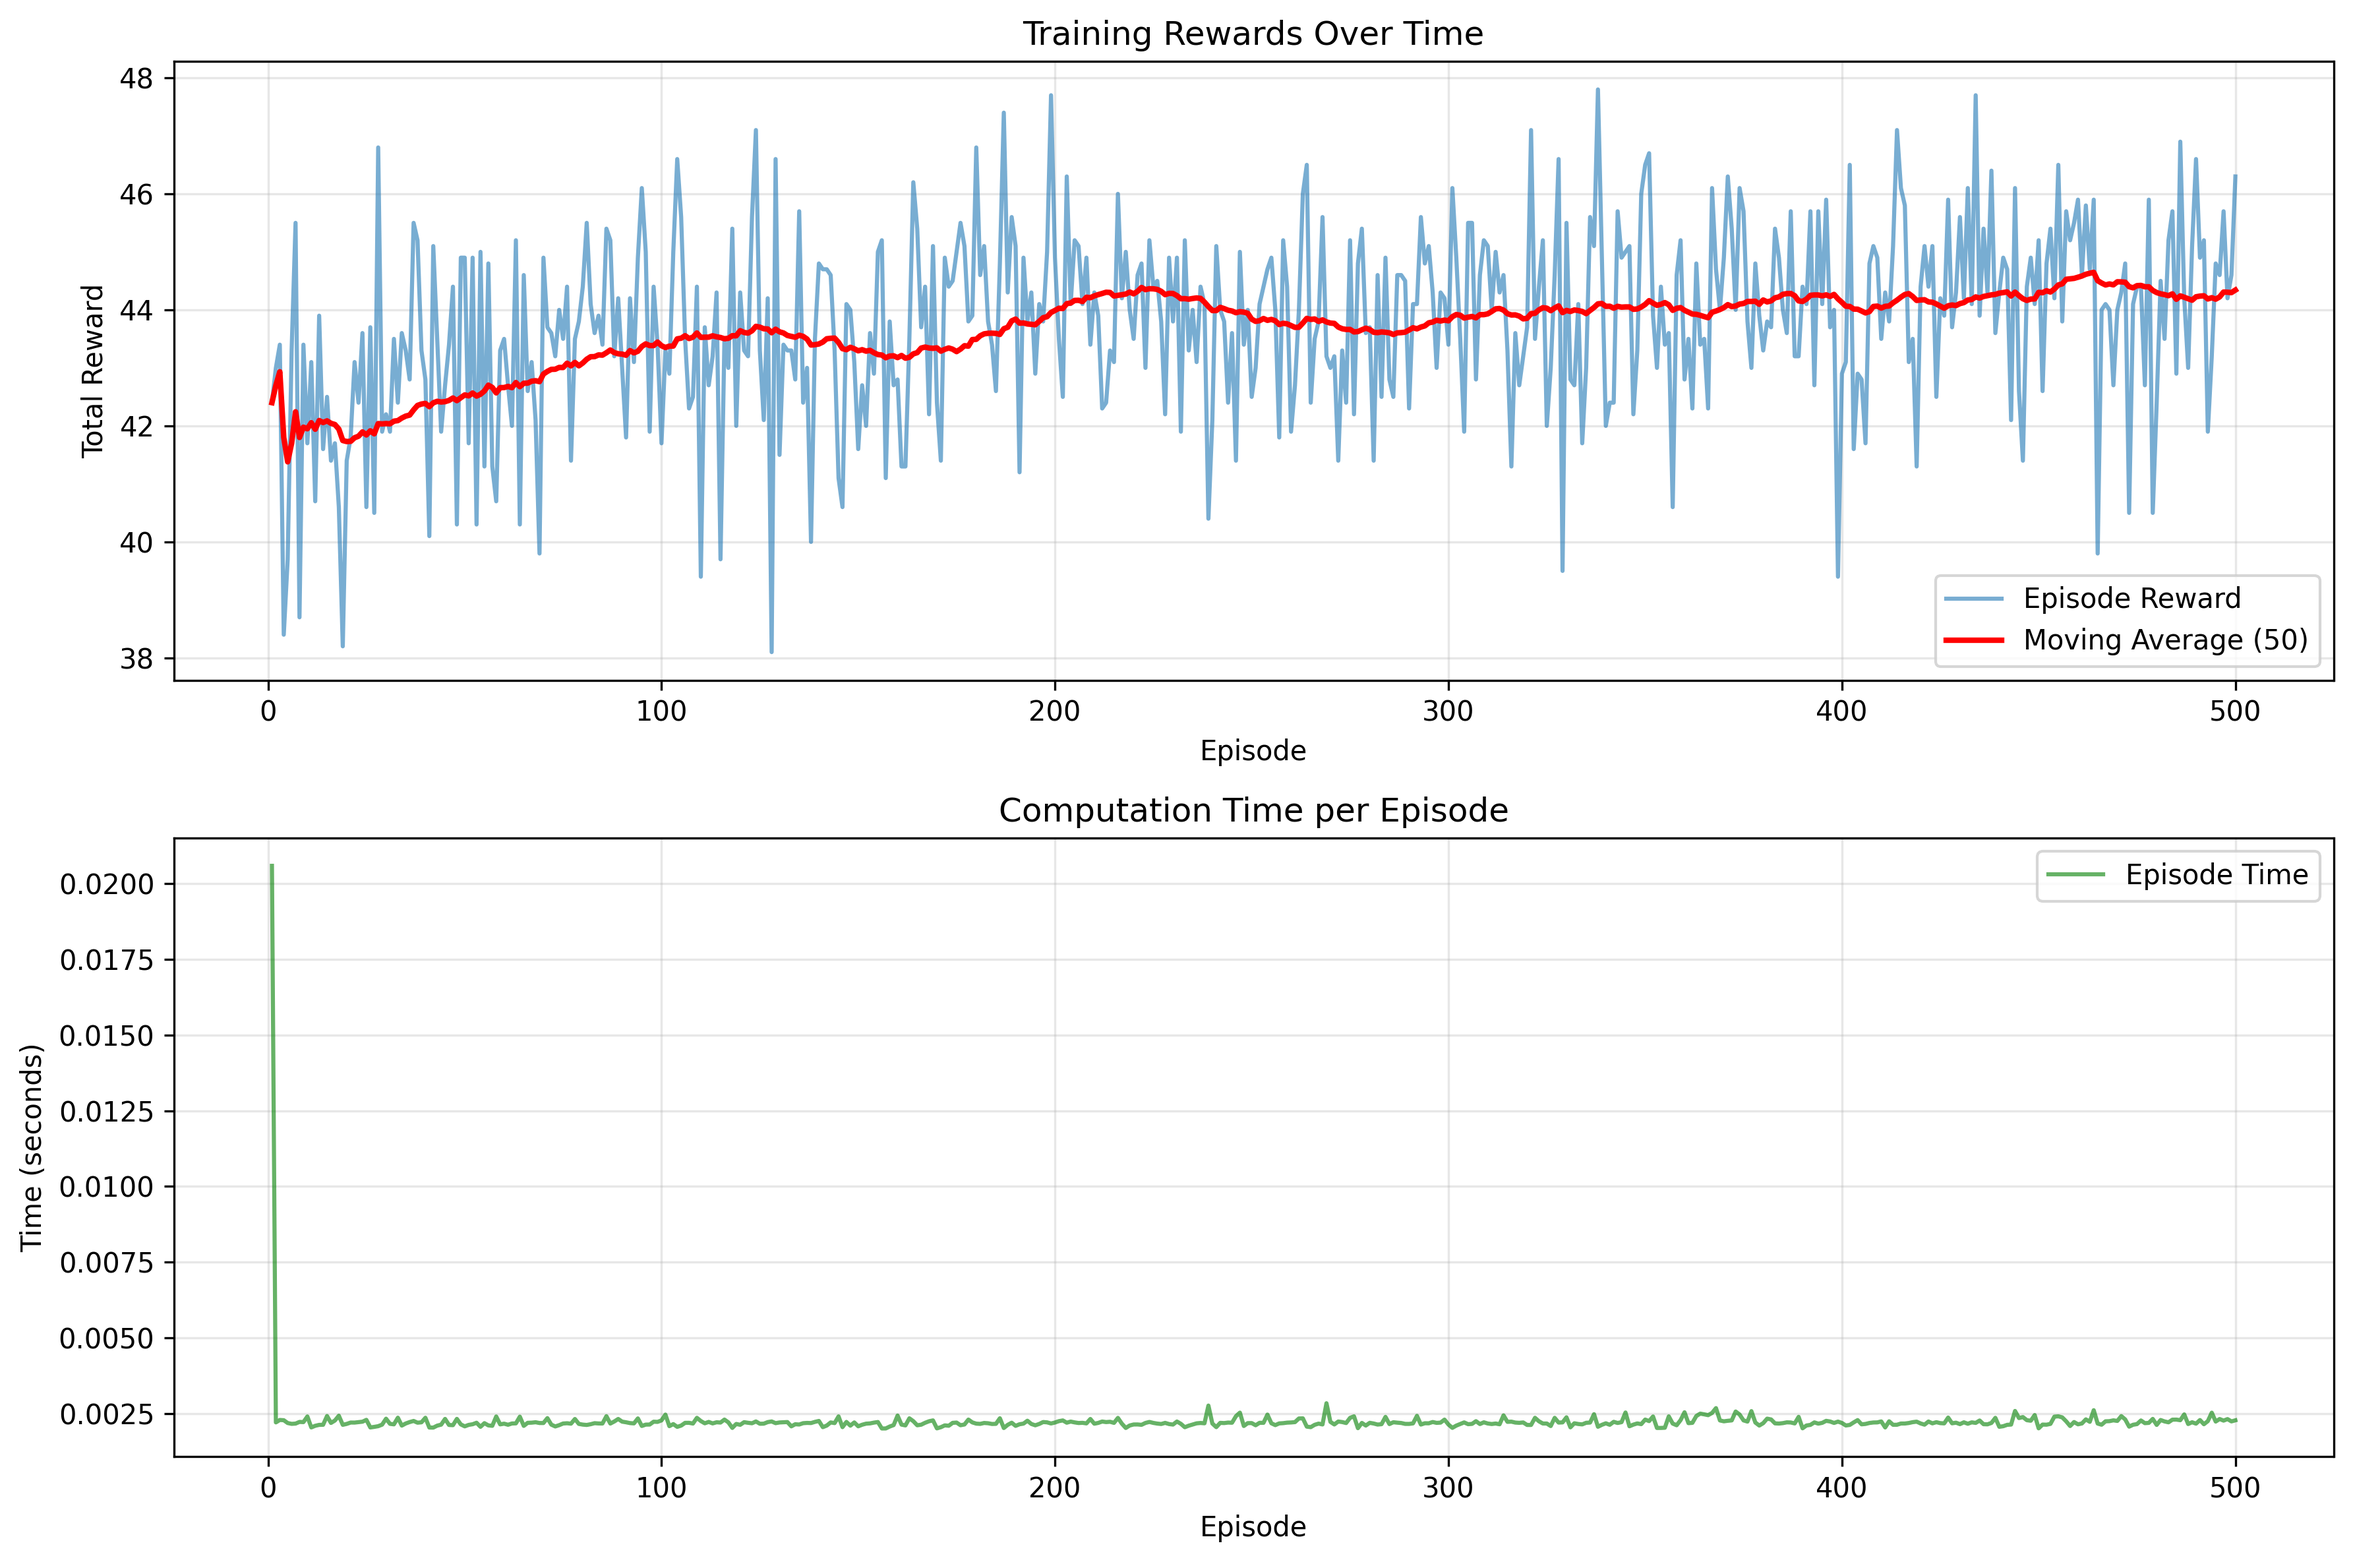
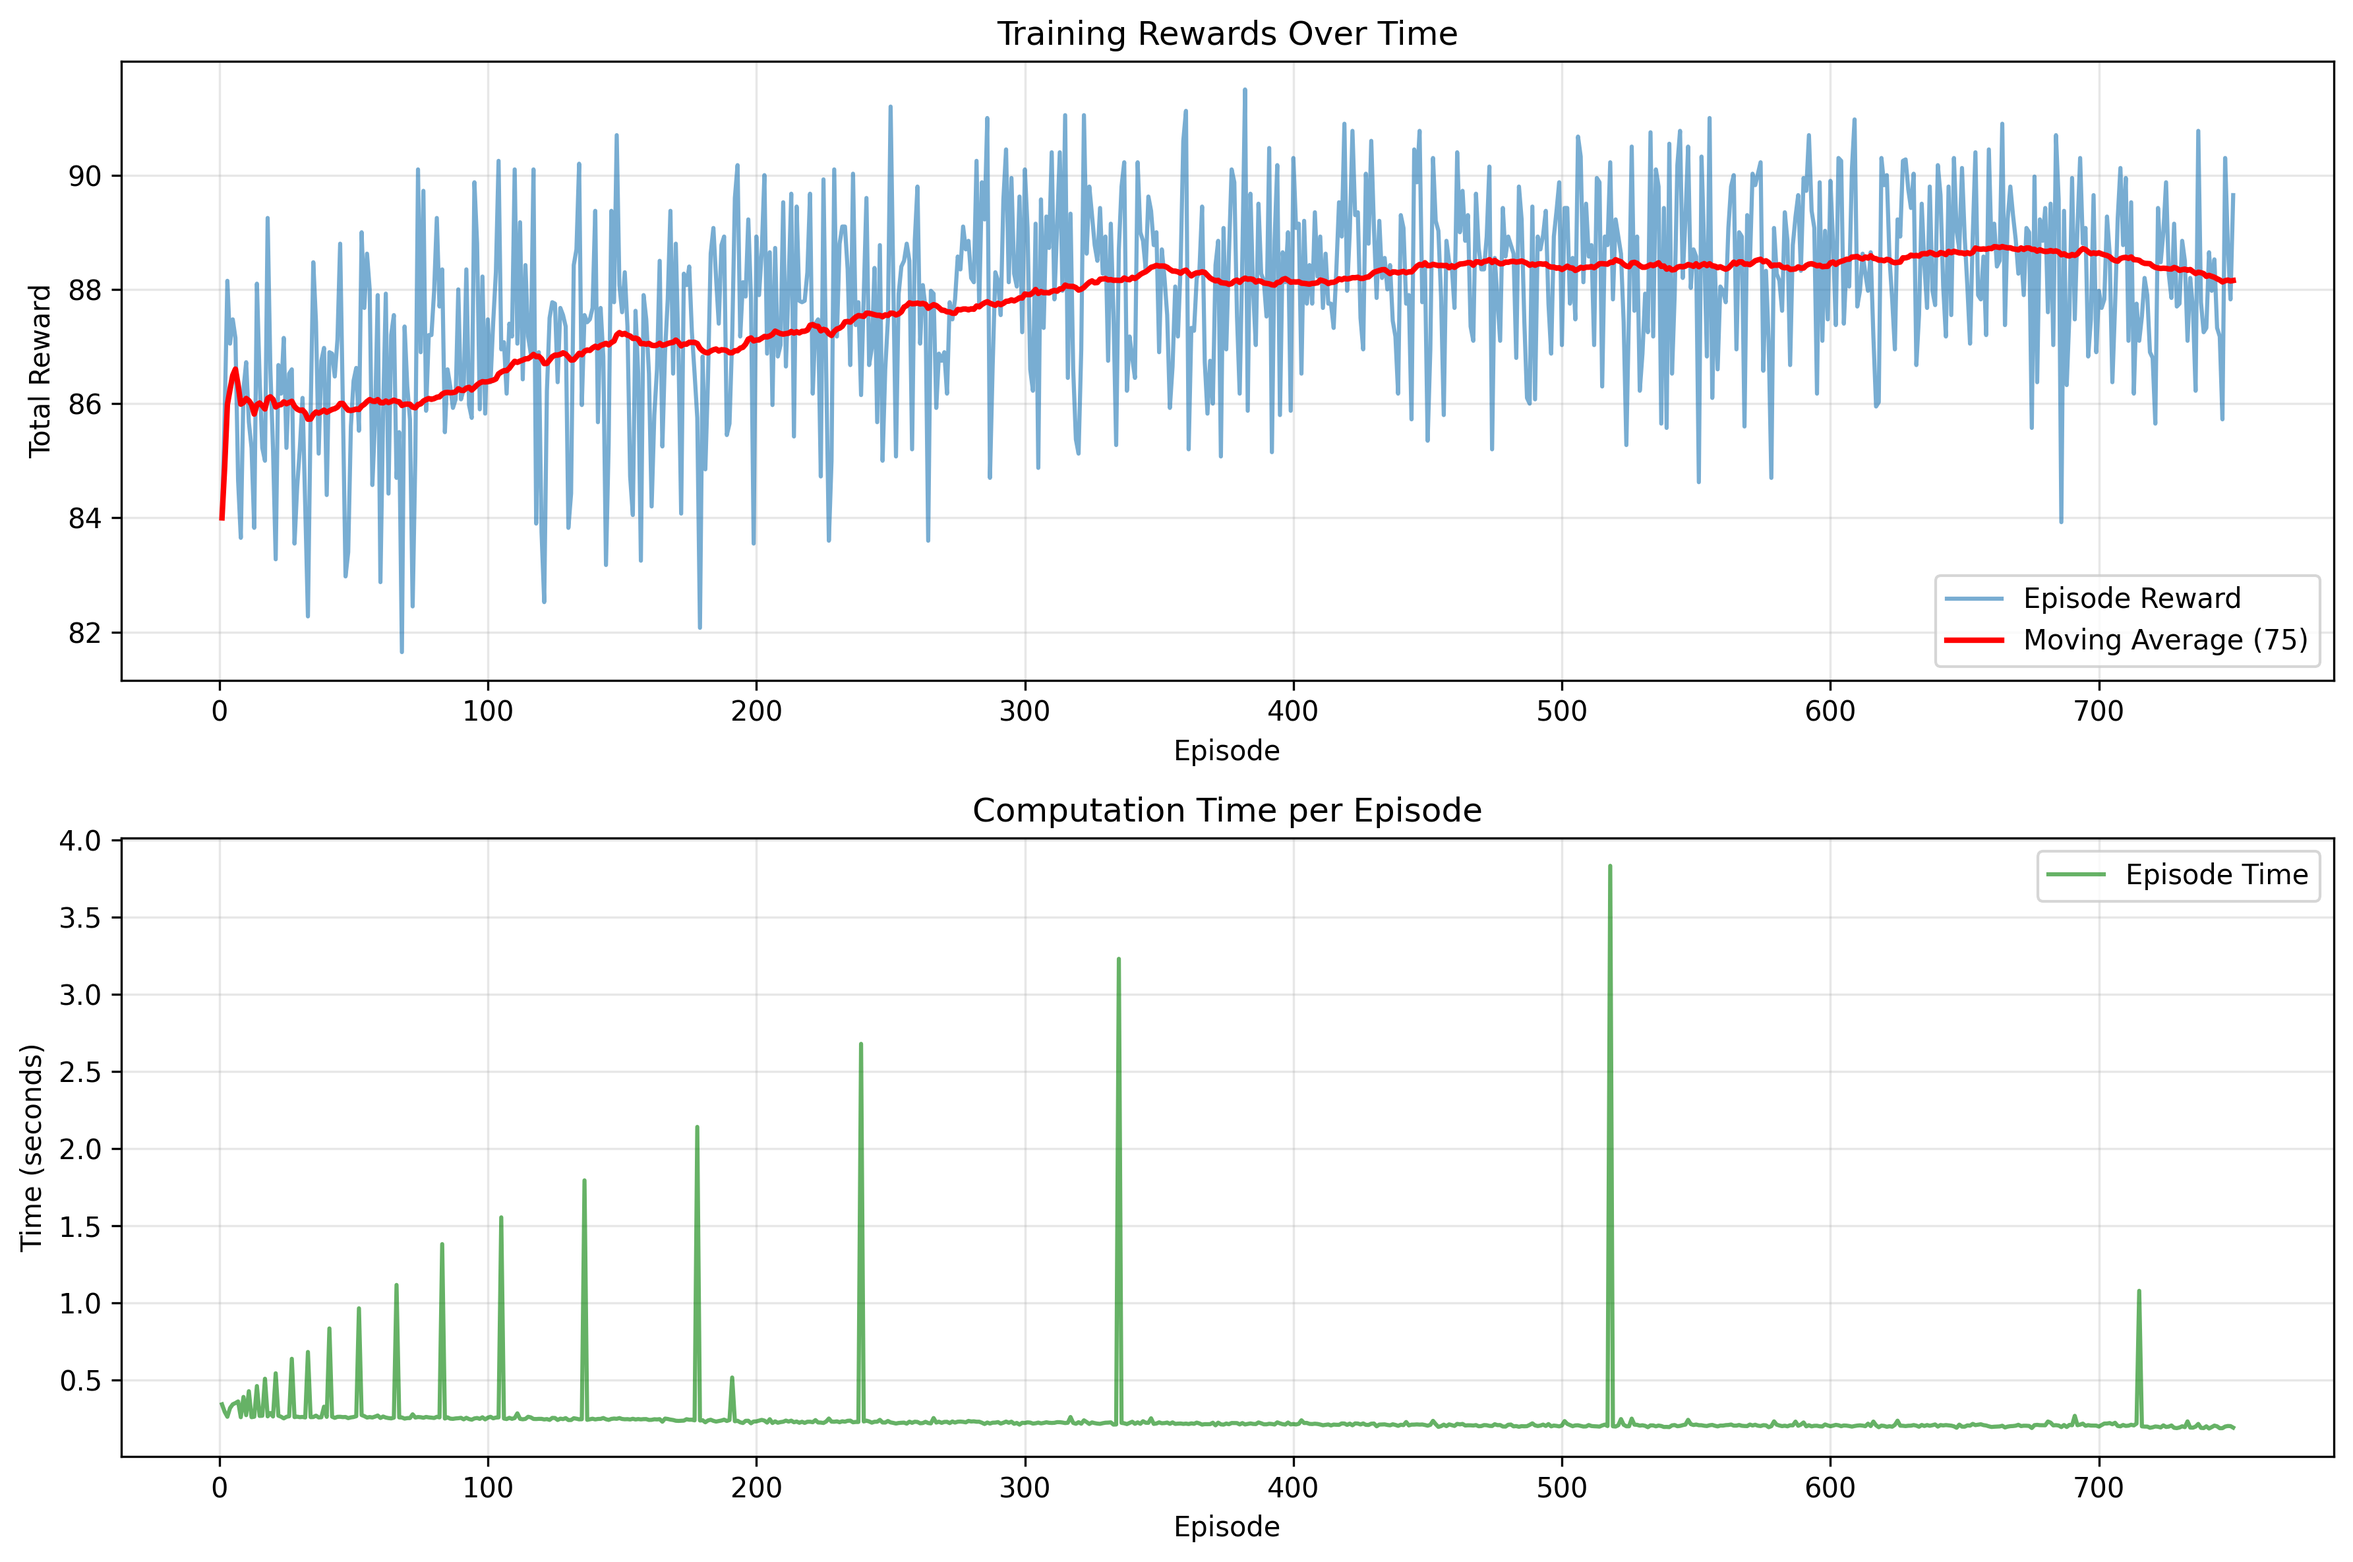
updated with some fixes

diff --git a/centralized_training.py b/centralized_training.py
@@ -17,6 +17,8 @@ from base_classes import (
     GlobalAgentTransition, LocalAgentTransition,
     GlobalAgentReward, LocalAgentReward
 )
+import itertools
+
 
 class CentralizedEnvironment:
     """Environment managing global and local agents with custom transitions and rewards."""
@@ -47,6 +49,7 @@ class CentralizedEnvironment:
         current_global_state = self.global_agent.get_state()
         current_local_states = [agent.get_state() for agent in self.local_agents]
         
+        ###### something is weird here... getting reward before choosing actions?? should first choose actions then get rewards and finally transition states
         # Compute reward
         reward = self.compute_reward(current_global_state, global_action, 
                                    current_local_states, local_actions)
@@ -55,9 +58,11 @@ class CentralizedEnvironment:
         next_global_state = self.global_transition.sample_next_state(current_global_state, global_action)
         next_local_states = []
         
+        # Local agent's state evolves as s_i' ~ P_l(.|s_i, s_g, a_i)
         for i, local_action in enumerate(local_actions):
+            current_local_state = current_local_states[i]
             next_local_state = self.local_transition.sample_next_state(
-                current_global_state, global_action, local_action)
+                current_local_state, current_global_state, local_action)
             next_local_states.append(next_local_state)
         
         # Update agent states
@@ -87,14 +92,13 @@ class CentralizedEnvironment:
 
 class CentralizedQLearning:
     """Centralized Q-learning algorithm for multi-agent system."""
-    
     def __init__(self, 
-                 environment: CentralizedEnvironment,
-                 learning_rate: float = 0.1,
-                 discount_factor: float = 0.9,
-                 epsilon: float = 0.1,
-                 epsilon_decay: float = 0.995,
-                 min_epsilon: float = 0.01):
+                environment: CentralizedEnvironment,
+                learning_rate: float = 0.3,
+                discount_factor: float = 0.9,
+                epsilon: float = 0.1,
+                epsilon_decay: float = 0.995,
+                min_epsilon: float = 0.01):
         self.env = environment
         self.lr = learning_rate
         self.gamma = discount_factor
@@ -124,7 +128,6 @@ class CentralizedQLearning:
     
     def _get_local_action_combinations(self) -> List[List[Action]]:
         """Get all combinations of local actions."""
-        import itertools
         action_spaces = [agent.action_space for agent in self.env.local_agents]
         return list(itertools.product(*action_spaces))
     
@@ -323,54 +326,55 @@ class CentralizedQLearning:
 def create_simple_example():
     """Create a simple example to demonstrate the algorithm."""
     # Create simple discrete state and action spaces
-    global_states = [DiscreteState(i) for i in range(5)]
-    global_actions = [DiscreteAction(i) for i in range(3)]
-    local_states = [DiscreteState(i) for i in range(3)]
-    local_actions = [DiscreteAction(i) for i in range(2)]
+    global_agent_states = [DiscreteState(i) for i in range(5)]
+    global_agent_actions = [DiscreteAction(i) for i in range(3)]
+    local_agent_states = [DiscreteState(i) for i in range(3)]
+    local_agent_actions = [DiscreteAction(i) for i in range(2)]
     
     # Create agents
-    global_agent = GlobalAgent(global_states, global_actions)
-    local_agents = [LocalAgent(i, local_states, local_actions) for i in range(2)]
+    n = 8
+    global_agent = GlobalAgent(global_agent_states, global_agent_actions)
+    local_agents = [LocalAgent(i, local_agent_states, local_agent_actions) for i in range(n)]
     
     # Create simple transition functions
-    global_transitions = {}
-    for gs in global_states:
-        for ga in global_actions:
+    global_agent_transitions = {}
+    for gs in global_agent_states:
+        for ga in global_agent_actions:
             # Simple random transitions
-            next_state_probs = {s: 1.0/len(global_states) for s in global_states}
-            global_transitions[(gs, ga)] = next_state_probs
+            next_state_probs = {s: 1.0/len(global_agent_states) for s in global_agent_states}
+            global_agent_transitions[(gs, ga)] = next_state_probs
     
-    local_transitions = {}
-    for gs in global_states:
-        for ga in global_actions:
-            for la in local_actions:
+    local_agent_transitions = {}
+    for ls in local_agent_states:
+        for gs in global_agent_states:
+            for la in local_agent_actions:
                 # Simple random transitions
-                next_state_probs = {s: 1.0/len(local_states) for s in local_states}
-                local_transitions[(gs, ga, la)] = next_state_probs
+                next_state_probs = {s: 1.0/len(local_agent_states) for s in local_agent_states}
+                local_agent_transitions[(ls, gs, la)] = next_state_probs
     
-    global_transition = GlobalAgentTransition(global_transitions)
-    local_transition = LocalAgentTransition(local_transitions)
+    global_agent_transition = GlobalAgentTransition(global_agent_transitions)
+    local_agent_transition = LocalAgentTransition(local_agent_transitions)
     
     # Create simple reward functions
-    def simple_global_reward(global_state: State, global_action: Action) -> float:
+    def simple_global_agent_reward(global_state: State, global_action: Action) -> float:
         return 1.0 if global_action.value == 0 else -0.1
     
-    def simple_local_reward(local_state: State, global_state: State, local_action: Action) -> float:
+    def simple_local_agent_reward(local_state: State, global_state: State, local_action: Action) -> float:
         return 0.5 if local_action.value == 1 else -0.1
     
-    global_reward = GlobalAgentReward(simple_global_reward)
-    local_reward = LocalAgentReward(simple_local_reward)
+    global_agent_reward = GlobalAgentReward(simple_global_agent_reward)
+    local_agent_reward = LocalAgentReward(simple_local_agent_reward)
     
     # Create environment
     env = CentralizedEnvironment(
-        global_agent, local_agents, global_transition, local_transition,
-        global_reward, local_reward
+        global_agent, local_agents, global_agent_transition, local_agent_transition,
+        global_agent_reward, local_agent_reward
     )
     
     # Create Q-learning algorithm
-    q_learner = CentralizedQLearning(env, learning_rate=0.1, discount_factor=0.9)
+    q_learner = CentralizedQLearning(env, learning_rate=0.3, discount_factor=0.9)
     
-    return q_learner, global_states[0], [local_states[0], local_states[0]]
+    return q_learner, global_agent_states[0], [local_agent_states[0], local_agent_states[0]]
 
 
 if __name__ == "__main__":
@@ -381,7 +385,7 @@ if __name__ == "__main__":
     print("Starting training...")
     training_results = q_learner.train(
         initial_global_state, initial_local_states,
-        num_episodes=500, max_steps_per_episode=50
+        num_episodes=750, max_steps_per_episode=100
     )
     
     print("Plotting results...")

diff --git a/base_classes.py b/base_classes.py
@@ -135,13 +135,17 @@ class GlobalAgentTransition(TransitionFunction):
         return np.random.choice(next_states, p=probs)
 
 class LocalAgentTransition(TransitionFunction):
-    """Transition function for local agent: s_i' ~ P_l(.|s_g, a_g, a_i)"""
-    def __init__(self, transition_probs: Dict[Tuple[State, Action, Action], Dict[State, float]]):
+    """Transition function for local agent: s_i' ~ P_l(.|s_i, s_g, a_i)"""
+    def __init__(self, transition_probs: Dict[Tuple[State, State, Action], Dict[State, float]]):
         self.transition_probs = transition_probs
     
-    def sample_next_state(self, global_state: State, global_action: Action, local_action: Action) -> State:
-        """Sample next local state given global state, global action, and local action."""
-        key = (global_state, global_action, local_action)        
+    def sample_next_state(self, local_state: State, global_state: State, local_action: Action) -> State:
+        """Sample next local state given current local state, global state, and local action."""
+        key = (local_state, global_state, local_action)        
+        if key not in self.transition_probs:
+            # Default transition - could be customized
+            return DiscreteState(np.random.randint(0, 10))  # Default behavior
+        
         next_states = list(self.transition_probs[key].keys())
         probs = list(self.transition_probs[key].values())
         return np.random.choice(next_states, p=probs)
